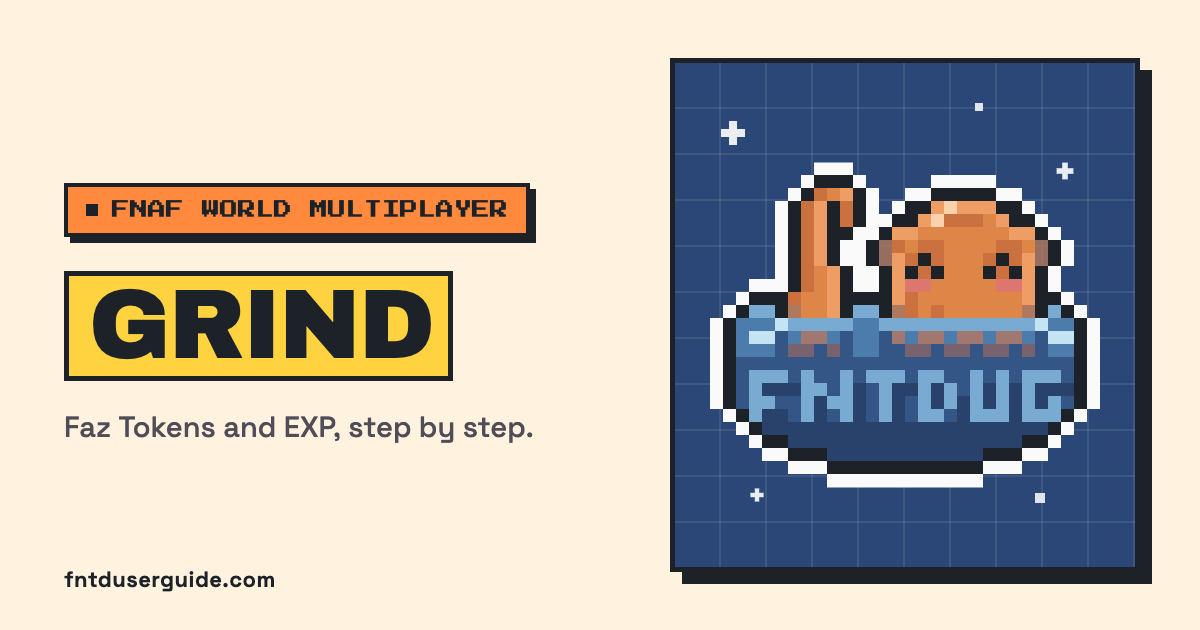
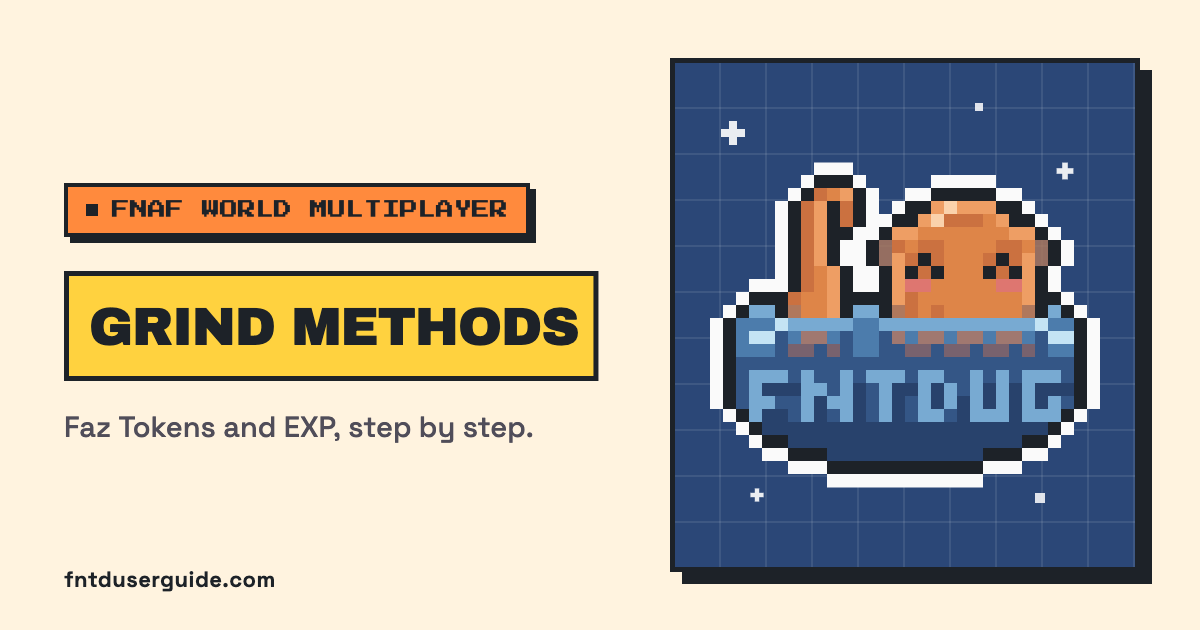
Rename the FWM Grind page to Grind Methods
Nav, heading, titles, share image and alt text. The URL stays /fwm/grind. Bumps the share image version so Discord refetches it.

Changed region(s): [[0.0617, 0.4222, 0.5242, 0.6032]]

diff --git a/fwm/grind.html b/fwm/grind.html
@@ -3,7 +3,7 @@
 <head>
   <meta charset="UTF-8">
   <meta name="viewport" content="width=device-width, initial-scale=1.0">
-  <title>FNaF World Multiplayer Grind Guide | FNTD User Guide</title>
+  <title>FNaF World Multiplayer Grind Methods | FNTD User Guide</title>
   <link rel="icon" type="image/png" href="https://primary.jwwb.nl/public/g/h/p/temp-xkzspsgvvlzquzykopjj/circle_done-high-hapj13.png?enable-io=true&enable=upscale&height=70">
   <link href="https://fonts.googleapis.com/css2?family=Archivo+Black&family=Audiowide&family=JetBrains+Mono:wght@400;700&family=Press+Start+2P&family=Space+Grotesk:wght@400;500;700&display=swap" rel="stylesheet">
   <style>*,*::before,*::after{box-sizing:border-box;margin:0;padding:0;overflow-wrap:break-word;-webkit-font-smoothing:antialiased;-moz-osx-font-smoothing:grayscale}html,body{min-height:100vh;font-size:16px;scrollbar-width:thin;-webkit-text-size-adjust:100%;text-size-adjust:100%;-webkit-font-smoothing:antialiased;-moz-osx-font-smoothing:grayscale}html{font-size:10px}body::-webkit-scrollbar{width:6px}body::-webkit-scrollbar-thumb{border-radius:3px}#ug-main{min-height:100vh;display:flex;flex-direction:column}.ug-mn-child.active::after,.ug-mn-link.active::after{content:"|";margin-left:4px;font-weight:400}body.ug-cursor-off .ug-mn-child.active::after,body.ug-cursor-off .ug-mn-link.active::after{opacity:0}#ug-hamburger{display:none;position:fixed;top:11px;right:12px;z-index:1200;border-radius:22px;padding:7px 13px 7px 10px;cursor:pointer;font-size:10px;letter-spacing:.4px;align-items:center;gap:6px;transition:background .15s,border-color .15s,box-shadow .15s}#ug-hamburger .hmb-icon{font-size:16px;line-height:1}#ug-overlay{display:none;position:fixed;inset:0;z-index:1099}#ug-overlay.open{display:block}#ug-mobile-nav{position:fixed;top:0;right:0;width:min(290px,88vw);height:100vh;z-index:1100;overflow-y:auto;transform:translateX(100%);transition:transform .3s cubic-bezier(.4,0,.2,1);display:flex;flex-direction:column;scrollbar-width:thin}#ug-mobile-nav::-webkit-scrollbar{width:3px}#ug-mobile-nav::-webkit-scrollbar-thumb{border-radius:2px}#ug-mobile-nav.open{transform:translateX(0)}.ug-mn-header{display:flex;align-items:center;justify-content:space-between;padding:14px 14px 13px;flex-shrink:0}.ug-mn-brand{display:flex;align-items:center;gap:10px}.ug-mn-brand-logo{width:30px;height:30px;object-fit:contain}.ug-mn-brand-name{font-size:12px;line-height:1.2}.ug-mn-close{border-radius:50%;width:28px;height:28px;display:flex;align-items:center;justify-content:center;font-size:14px;cursor:pointer;flex-shrink:0;line-height:1;transition:background .13s,color .13s,border-color .13s}.ug-mn-body{flex:1;padding:6px 0 12px}.ug-mn-link{display:flex;align-items:center;padding:12px 18px;font-size:10.5px;letter-spacing:.3px;text-decoration:none;transition:background .12s,color .12s}.ug-mn-section-btn{display:flex;align-items:center;justify-content:space-between;width:100%;padding:11px 18px;border:none;font-size:9.5px;letter-spacing:1.2px;text-transform:uppercase;cursor:pointer;text-align:left;transition:background .12s,color .12s}.ug-mn-section-arrow{opacity:.55;font-size:13px;flex-shrink:0;font-style:normal;min-width:.8em;text-align:center;transition:opacity .12s,color .12s}.ug-mn-section.open .ug-mn-section-btn .ug-mn-section-arrow{opacity:1}.ug-mn-section-items{max-height:0;overflow:hidden;transition:max-height .28s ease}.ug-mn-section.open .ug-mn-section-items{max-height:600px}.ug-mn-child{display:block;padding:9px 18px 9px 28px;font-size:10px;letter-spacing:.2px;text-decoration:none;transition:background .11s,color .11s}.ug-mn-child:last-child{border-bottom:none}.ug-mn-child.active{border-left:2px solid var(--ug-accent);padding-left:26px}.ug-mn-discord-wrap{padding:14px 14px 4px}.ug-mn-discord{display:flex;align-items:center;gap:9px;padding:11px 14px;border-radius:9px;font-size:10.5px;text-decoration:none;letter-spacing:.3px;transition:background .13s,border-color .13s,color .13s}#ug-hero{position:relative}#ug-hero::before{content:'';position:absolute;inset:0;pointer-events:none}#ug-hero-inner{position:relative;z-index:1;padding:24px 18px 22px;max-width:860px;width:100%;margin:0 auto}#ug-content{flex:1;padding:22px 18px 50px;max-width:860px;width:100%;margin:0 auto}.ug-page-title-area{text-align:center;margin-bottom:18px}.ug-page-title{font-size:32px;margin-bottom:10px;text-decoration:underline;text-underline-offset:6px}.ug-status-badge{display:inline-block;padding:6px 18px;border-radius:20px;font-size:10px;margin-bottom:12px}.ug-page-desc{font-size:17px;line-height:1.75;margin-bottom:6px;text-align:center}.ug-note{font-size:16px;color:#fff;line-height:1.75;margin-bottom:16px}#ug-content img{max-width:100%;height:auto;display:block;margin:0 auto 16px}.ad-slot{text-align:center}@media(max-width:768px){#ug-hamburger{display:flex}}@media(max-width:480px){.ug-page-title{font-size:22px}}#tradeApp button{font-family:'Press Start 2P',cursive}#ug-content{max-width:1320px!important;}@media(max-width:600px){#ug-content{padding:22px 12px 50px!important;}}#ug-hamburger{z-index:2147483647!important}#ug-overlay{z-index:2147483645!important}#ug-mobile-nav{z-index:2147483646!important}</style>
@@ -18,18 +18,18 @@
   <div id="ug-main">
     <div id="ug-hero"><div id="ug-hero-inner">
       <div class="ug-page-title-area">
-        <div class="ug-page-title">FWM Grind</div>
+        <div class="ug-page-title">FWM Grind Methods</div>
         <div class="ug-status-badge" data-gh-file="fnafworldgrind.json" data-gh-repo="FNTDUG/characters.json">(Up-To-Date!)</div>
         <p class="ug-page-desc" style="margin-top:8px">The fastest ways to farm Faz Tokens and EXP in FNaF World Multiplayer on Roblox. Pick a method to see the boss, the rewards and every step.</p>
       </div>
 <div class="ad-slot" style="margin-top:14px"><ins class="adsbygoogle" style="display:block" data-ad-client="ca-pub-7017245771068026" data-ad-slot="9010982209" data-ad-format="auto" data-full-width-responsive="true"></ins><script>(adsbygoogle = window.adsbygoogle || []).push({});</script></div>
     </div></div>
     <div id="ug-content">
-<link rel="stylesheet" href="/fwm/fw.css?v=20261022c">
+<link rel="stylesheet" href="/fwm/fw.css?v=20261022d">
 <div class="fw fw--grind" id="fw" data-src="https://raw.githubusercontent.com/FNTDUG/characters.json/main/fnafworld.json" data-grind="https://raw.githubusercontent.com/FNTDUG/characters.json/main/fnafworldgrind.json">
-<div class="fw-grids" id="fw-panel"><p class="fw-none">Loading the grind guides...</p></div>
+<div class="fw-grids" id="fw-panel"><p class="fw-none">Loading the grind methods...</p></div>
 </div>
-<script src="/fwm/fw.js?v=20261022c" defer></script>
+<script src="/fwm/fw.js?v=20261022d" defer></script>
 
           <div class="ad-slot" style="max-width:600px;width:95%;margin:32px auto 8px"><ins class="adsbygoogle" style="display:block" data-ad-client="ca-pub-7017245771068026" data-ad-slot="9010982209" data-ad-format="auto" data-full-width-responsive="true"></ins><script>(adsbygoogle = window.adsbygoogle || []).push({});</script></div>
     </div>

diff --git a/_worker.js b/_worker.js
@@ -48,7 +48,7 @@ const MOBILE_NAV_BODY = `
     <a href="/fwm/tech-specs"            class="ug-mn-child" data-nav-href="/fwm/tech-specs">Tech Specs</a>
     <a href="/fwm/tierlist"             class="ug-mn-child" data-nav-href="/fwm/tierlist">TierList</a>
     <a href="/fwm/meta-teams"            class="ug-mn-child" data-nav-href="/fwm/meta-teams">Meta Teams</a>
-    <a href="/fwm/grind"                 class="ug-mn-child" data-nav-href="/fwm/grind">Grind</a>
+    <a href="/fwm/grind"                 class="ug-mn-child" data-nav-href="/fwm/grind">Grind Methods</a>
   </div>
 </div>
 <div class="ug-mn-section">
@@ -113,7 +113,7 @@ const DESKTOP_NAV_INNER = `
     <a href="/fwm/tech-specs"            data-nav-href="/fwm/tech-specs">Tech Specs</a>
     <a href="/fwm/tierlist"             data-nav-href="/fwm/tierlist">TierList</a>
     <a href="/fwm/meta-teams"            data-nav-href="/fwm/meta-teams">Meta Teams</a>
-    <a href="/fwm/grind"                 data-nav-href="/fwm/grind">Grind</a>
+    <a href="/fwm/grind"                 data-nav-href="/fwm/grind">Grind Methods</a>
   </div>
 </div>
 <div class="ug-tn-item">
@@ -3383,8 +3383,8 @@ async function pushSend(request, env) {
 
 const SITE_URL = 'https://www.fntduserguide.com';
 const SITE_NAME = 'FNTD User Guide';
-const SEO_OG_V = 3;
-const SEO_OG_ALT = { home: 'FNTD User Guide: many guides, one hub', fntd1: 'FNTD1 Guide on the FNTD User Guide', fntd2: 'FNTD2 Guide on the FNTD User Guide', 'fntd2-codes': 'FNTD2 Codes on the FNTD User Guide', bbn: 'BBN Guide on the FNTD User Guide', 'bbn-codes': 'BBN Codes on the FNTD User Guide', fwm: 'FWM Roster on the FNTD User Guide', 'fwm-specs': 'FWM Tech Specs on the FNTD User Guide', 'fwm-meta': 'FWM Meta Teams on the FNTD User Guide', 'fwm-tiers': 'FWM TierList on the FNTD User Guide', 'fwm-grind': 'FWM Grind on the FNTD User Guide', 'fwm-guide': 'FWM Guide on the FNTD User Guide' };
+const SEO_OG_V = 4;
+const SEO_OG_ALT = { home: 'FNTD User Guide: many guides, one hub', fntd1: 'FNTD1 Guide on the FNTD User Guide', fntd2: 'FNTD2 Guide on the FNTD User Guide', 'fntd2-codes': 'FNTD2 Codes on the FNTD User Guide', bbn: 'BBN Guide on the FNTD User Guide', 'bbn-codes': 'BBN Codes on the FNTD User Guide', fwm: 'FWM Roster on the FNTD User Guide', 'fwm-specs': 'FWM Tech Specs on the FNTD User Guide', 'fwm-meta': 'FWM Meta Teams on the FNTD User Guide', 'fwm-tiers': 'FWM TierList on the FNTD User Guide', 'fwm-grind': 'FWM Grind Methods on the FNTD User Guide', 'fwm-guide': 'FWM Guide on the FNTD User Guide' };
 function seoOgName(p) {
   if (p === '/fntd2/codes' || p === '/bbn/codes') return p.split('/')[1] + '-codes';
   if (p === '/patch-notes') return 'fntd2';
@@ -3450,7 +3450,7 @@ const SEO_PAGES = {
   '/fwm/tech-specs': ['FWM Tech Specs: FNaF World Multiplayer Bytes, Chips & Armor', 'Every Byte, Chip and Mendo-Armor upgrade in FNaF World Multiplayer on Roblox: what each does, what it costs and where to find every chip.'],
   '/fwm/tierlist': ['FWM TierList: Best FNaF World Multiplayer Characters', 'FNaF World Multiplayer tier list for Roblox: every party member, move, Byte and Chip ranked from S to D, with notes on why each one sits where it does.'],
   '/fwm/meta-teams': ['FWM Meta Teams: Best FNaF World Multiplayer Teams', 'The best FNaF World Multiplayer teams on Roblox: both parties of four characters, plus the four Bytes and four Chips to equip with each team.'],
-  '/fwm/grind': ['FWM Grind Guide: Farm Faz Tokens & EXP Fast', 'How to grind Faz Tokens and EXP in FNaF World Multiplayer on Roblox: the Gold Endo token loop, the Security Owl EXP loop and the best spot in each world.'],
+  '/fwm/grind': ['FWM Grind Methods: Farm Faz Tokens & EXP Fast', 'How to grind Faz Tokens and EXP in FNaF World Multiplayer on Roblox: the Gold Endo token loop, the Security Owl EXP loop and the best spot in each world.'],
   '/fwm/roster': ['FWM Roster Wiki: Every FNaF World Multiplayer Character', 'The FNaF World Multiplayer character wiki for Roblox: every party member with health, moves and how to unlock them, plus every boss, enemy and NPC.'],
   '/sponsor': ['Sponsor the FNTD User Guide | Reach Roblox Players', 'Sponsor the FNTD User Guide to put your Roblox game or product in front of Five Nights TD 2, Five Nights TD and Bite By Night players.'],
   '/privacy-policy': ['Privacy Policy | FNTD User Guide', 'How the FNTD User Guide handles your data: what is collected when you visit, how it is used, and who it is shared with.']
@@ -4210,7 +4210,7 @@ function seoFwmGrindHtml(d, roster) {
   if (!d || !Array.isArray(d.methods)) return '';
   const foes = {};
   ((roster && roster.bosses) || []).concat((roster && roster.enemies) || []).forEach(c => { if (c && c.name) foes[seoFwmSlug(c.name)] = c; });
-  const out = ['<h2>FNaF World Multiplayer grind guide</h2>'];
+  const out = ['<h2>FNaF World Multiplayer grind methods</h2>'];
   d.methods.forEach(m => {
     if (!m || !m.name) return;
     const f = m.boss && foes[seoFwmSlug(m.boss)];
@@ -4226,7 +4226,7 @@ function seoFwmGrindHtml(d, roster) {
       out.push(b);
     });
   });
-  return out.length > 1 ? seoBlock('FNaF World Multiplayer grind guide as text', out.join('')) : '';
+  return out.length > 1 ? seoBlock('FNaF World Multiplayer grind methods as text', out.join('')) : '';
 }
 function seoFwmTierHtml(d) {
   if (!d || !d.lists) return '';

diff --git a/fwm/roster.html b/fwm/roster.html
@@ -25,13 +25,13 @@
 <div class="ad-slot" style="margin-top:14px"><ins class="adsbygoogle" style="display:block" data-ad-client="ca-pub-7017245771068026" data-ad-slot="9010982209" data-ad-format="auto" data-full-width-responsive="true"></ins><script>(adsbygoogle = window.adsbygoogle || []).push({});</script></div>
     </div></div>
     <div id="ug-content">
-<link rel="stylesheet" href="/fwm/fw.css?v=20261022c">
+<link rel="stylesheet" href="/fwm/fw.css?v=20261022d">
 <div class="fw" id="fw" data-src="https://raw.githubusercontent.com/FNTDUG/characters.json/main/fnafworld.json" data-sort="world">
 <div class="fw-tabs" role="tablist" aria-label="Character types"><button type="button" role="tab" class="fw-tab" id="fw-tab-party" data-tab="party" aria-controls="fw-panel" aria-selected="true">Party <span class="fw-tab-n">48</span></button><button type="button" role="tab" class="fw-tab" id="fw-tab-boss" data-tab="boss" aria-controls="fw-panel" aria-selected="false" tabindex="-1">Bosses <span class="fw-tab-n">21</span></button><button type="button" role="tab" class="fw-tab" id="fw-tab-enemy" data-tab="enemy" aria-controls="fw-panel" aria-selected="false" tabindex="-1">Enemies <span class="fw-tab-n">43</span></button><button type="button" role="tab" class="fw-tab" id="fw-tab-npc" data-tab="npc" aria-controls="fw-panel" aria-selected="false" tabindex="-1">NPCs <span class="fw-tab-n">6</span></button></div>
 <div class="fw-tools"><label class="fw-sr" for="fw-q">Search characters</label><input id="fw-q" class="fw-q" type="search" placeholder="Search characters" autocomplete="off" spellcheck="false"><div class="fw-sortw"><button type="button" class="fw-sort" id="fw-sort" aria-haspopup="listbox" aria-expanded="false" aria-controls="fw-sort-menu"><span class="fw-sort-k">Sort:</span> <span class="fw-sort-v">World</span><span class="fw-sort-c" aria-hidden="true"></span></button><ul class="fw-menu" id="fw-sort-menu" role="listbox" aria-label="Sort by" tabindex="-1" hidden><li role="option" id="fw-opt-world" data-v="world" data-l="World" aria-selected="true"><span>World</span><svg class="fw-ck" viewBox="0 0 8 6" aria-hidden="true" focusable="false"><path d="M7 0h1v2H7v1H6v1H5v1H4v1H3V5H2V4H1V3H0V2h2v1h1v1h1V3h1V2h1V1h1z"/></svg></li><li role="option" id="fw-opt-hp" data-v="hp" data-l="Health" aria-selected="false"><span>Health</span><svg class="fw-ck" viewBox="0 0 8 6" aria-hidden="true" focusable="false"><path d="M7 0h1v2H7v1H6v1H5v1H4v1H3V5H2V4H1V3H0V2h2v1h1v1h1V3h1V2h1V1h1z"/></svg></li><li role="option" id="fw-opt-az" data-v="az" data-l="A to Z" aria-selected="false"><span>A to Z</span><svg class="fw-ck" viewBox="0 0 8 6" aria-hidden="true" focusable="false"><path d="M7 0h1v2H7v1H6v1H5v1H4v1H3V5H2V4H1V3H0V2h2v1h1v1h1V3h1V2h1V1h1z"/></svg></li><li role="option" id="fw-opt-game" data-v="game" data-l="Game" data-tabs="party" aria-selected="false"><span>Game</span><svg class="fw-ck" viewBox="0 0 8 6" aria-hidden="true" focusable="false"><path d="M7 0h1v2H7v1H6v1H5v1H4v1H3V5H2V4H1V3H0V2h2v1h1v1h1V3h1V2h1V1h1z"/></svg></li></ul></div></div>
 <div class="fw-grids" id="fw-panel" role="tabpanel" aria-labelledby="fw-tab-party"><p class="fw-none">Loading characters...</p></div>
 </div>
-<script src="/fwm/fw.js?v=20261022c" defer></script>
+<script src="/fwm/fw.js?v=20261022d" defer></script>
 
           <div class="ad-slot" style="max-width:600px;width:95%;margin:32px auto 8px"><ins class="adsbygoogle" style="display:block" data-ad-client="ca-pub-7017245771068026" data-ad-slot="9010982209" data-ad-format="auto" data-full-width-responsive="true"></ins><script>(adsbygoogle = window.adsbygoogle || []).push({});</script></div>
     </div>

diff --git a/fwm/tech-specs.html b/fwm/tech-specs.html
@@ -25,13 +25,13 @@
 <div class="ad-slot" style="margin-top:14px"><ins class="adsbygoogle" style="display:block" data-ad-client="ca-pub-7017245771068026" data-ad-slot="9010982209" data-ad-format="auto" data-full-width-responsive="true"></ins><script>(adsbygoogle = window.adsbygoogle || []).push({});</script></div>
     </div></div>
     <div id="ug-content">
-<link rel="stylesheet" href="/fwm/fw.css?v=20261022c">
+<link rel="stylesheet" href="/fwm/fw.css?v=20261022d">
 <div class="fw" id="fw" data-src="https://raw.githubusercontent.com/FNTDUG/characters.json/main/fnafworldspecs.json" data-sort="group">
 <div class="fw-tabs" role="tablist" aria-label="Tech spec types"><button type="button" role="tab" class="fw-tab" id="fw-tab-byte" data-tab="byte" aria-controls="fw-panel" aria-selected="true">Bytes <span class="fw-tab-n">23</span></button><button type="button" role="tab" class="fw-tab" id="fw-tab-chip" data-tab="chip" aria-controls="fw-panel" aria-selected="false" tabindex="-1">Chips <span class="fw-tab-n">21</span></button><button type="button" role="tab" class="fw-tab" id="fw-tab-armor" data-tab="armor" aria-controls="fw-panel" aria-selected="false" tabindex="-1">Mendo-Armor <span class="fw-tab-n">4</span></button></div>
 <div class="fw-tools"><label class="fw-sr" for="fw-q">Search bytes, chips and armor</label><input id="fw-q" class="fw-q" type="search" placeholder="Search tech specs" autocomplete="off" spellcheck="false"><div class="fw-sortw"><button type="button" class="fw-sort" id="fw-sort" aria-haspopup="listbox" aria-expanded="false" aria-controls="fw-sort-menu"><span class="fw-sort-k">Sort:</span> <span class="fw-sort-v">Type</span><span class="fw-sort-c" aria-hidden="true"></span></button><ul class="fw-menu" id="fw-sort-menu" role="listbox" aria-label="Sort by" tabindex="-1" hidden><li role="option" id="fw-opt-group" data-v="group" data-l="Type" aria-selected="true"><span>Type</span><svg class="fw-ck" viewBox="0 0 8 6" aria-hidden="true" focusable="false"><path d="M7 0h1v2H7v1H6v1H5v1H4v1H3V5H2V4H1V3H0V2h2v1h1v1h1V3h1V2h1V1h1z"/></svg></li><li role="option" id="fw-opt-world" data-v="world" data-l="World" aria-selected="false"><span>World</span><svg class="fw-ck" viewBox="0 0 8 6" aria-hidden="true" focusable="false"><path d="M7 0h1v2H7v1H6v1H5v1H4v1H3V5H2V4H1V3H0V2h2v1h1v1h1V3h1V2h1V1h1z"/></svg></li><li role="option" id="fw-opt-price" data-v="price" data-l="Price" data-tabs="byte armor" aria-selected="false"><span>Price</span><svg class="fw-ck" viewBox="0 0 8 6" aria-hidden="true" focusable="false"><path d="M7 0h1v2H7v1H6v1H5v1H4v1H3V5H2V4H1V3H0V2h2v1h1v1h1V3h1V2h1V1h1z"/></svg></li><li role="option" id="fw-opt-az" data-v="az" data-l="A to Z" aria-selected="false"><span>A to Z</span><svg class="fw-ck" viewBox="0 0 8 6" aria-hidden="true" focusable="false"><path d="M7 0h1v2H7v1H6v1H5v1H4v1H3V5H2V4H1V3H0V2h2v1h1v1h1V3h1V2h1V1h1z"/></svg></li></ul></div></div>
 <div class="fw-grids" id="fw-panel" role="tabpanel" aria-labelledby="fw-tab-byte"><p class="fw-none">Loading characters...</p></div>
 </div>
-<script src="/fwm/fw.js?v=20261022c" defer></script>
+<script src="/fwm/fw.js?v=20261022d" defer></script>
 
           <div class="ad-slot" style="max-width:600px;width:95%;margin:32px auto 8px"><ins class="adsbygoogle" style="display:block" data-ad-client="ca-pub-7017245771068026" data-ad-slot="9010982209" data-ad-format="auto" data-full-width-responsive="true"></ins><script>(adsbygoogle = window.adsbygoogle || []).push({});</script></div>
     </div>

diff --git a/fwm/tierlist.html b/fwm/tierlist.html
@@ -25,12 +25,12 @@
 <div class="ad-slot" style="margin-top:14px"><ins class="adsbygoogle" style="display:block" data-ad-client="ca-pub-7017245771068026" data-ad-slot="9010982209" data-ad-format="auto" data-full-width-responsive="true"></ins><script>(adsbygoogle = window.adsbygoogle || []).push({});</script></div>
     </div></div>
     <div id="ug-content">
-<link rel="stylesheet" href="/fwm/fw.css?v=20261022c">
+<link rel="stylesheet" href="/fwm/fw.css?v=20261022d">
 <div class="fw fw--tiers" id="fw" data-src="https://raw.githubusercontent.com/FNTDUG/characters.json/main/fnafworld.json" data-specs="https://raw.githubusercontent.com/FNTDUG/characters.json/main/fnafworldspecs.json" data-tiers="https://raw.githubusercontent.com/FNTDUG/characters.json/main/fnafworldtiers.json">
 <div class="fw-tabs" role="tablist" aria-label="Tier lists" hidden></div>
 <div class="fw-grids" id="fw-panel" role="tabpanel"><p class="fw-none">Loading the TierList...</p></div>
 </div>
-<script src="/fwm/fw.js?v=20261022c" defer></script>
+<script src="/fwm/fw.js?v=20261022d" defer></script>
 
           <div class="ad-slot" style="max-width:600px;width:95%;margin:32px auto 8px"><ins class="adsbygoogle" style="display:block" data-ad-client="ca-pub-7017245771068026" data-ad-slot="9010982209" data-ad-format="auto" data-full-width-responsive="true"></ins><script>(adsbygoogle = window.adsbygoogle || []).push({});</script></div>
     </div>

diff --git a/fwm/meta-teams.html b/fwm/meta-teams.html
@@ -25,12 +25,12 @@
 <div class="ad-slot" style="margin-top:14px"><ins class="adsbygoogle" style="display:block" data-ad-client="ca-pub-7017245771068026" data-ad-slot="9010982209" data-ad-format="auto" data-full-width-responsive="true"></ins><script>(adsbygoogle = window.adsbygoogle || []).push({});</script></div>
     </div></div>
     <div id="ug-content">
-<link rel="stylesheet" href="/fwm/fw.css?v=20261022c">
+<link rel="stylesheet" href="/fwm/fw.css?v=20261022d">
 <div class="fw fw--meta" id="fw" data-src="https://raw.githubusercontent.com/FNTDUG/characters.json/main/fnafworld.json" data-specs="https://raw.githubusercontent.com/FNTDUG/characters.json/main/fnafworldspecs.json" data-meta="https://raw.githubusercontent.com/FNTDUG/characters.json/main/fnafworldmeta.json">
 <div class="fw-tabs" role="tablist" aria-label="Team lists" hidden></div>
 <div class="fw-grids" id="fw-panel" role="tabpanel"><p class="fw-none">Loading teams...</p></div>
 </div>
-<script src="/fwm/fw.js?v=20261022c" defer></script>
+<script src="/fwm/fw.js?v=20261022d" defer></script>
 
           <div class="ad-slot" style="max-width:600px;width:95%;margin:32px auto 8px"><ins class="adsbygoogle" style="display:block" data-ad-client="ca-pub-7017245771068026" data-ad-slot="9010982209" data-ad-format="auto" data-full-width-responsive="true"></ins><script>(adsbygoogle = window.adsbygoogle || []).push({});</script></div>
     </div>

diff --git a/fwm/fw.js b/fwm/fw.js
@@ -1003,6 +1003,6 @@
     render();
     if (location.hash.length > 1) fromHash();
   }).catch(function () {
-    mount.innerHTML = '<p class="fw-none">' + (tierMode ? 'The TierList' : grindMode ? 'The grind guides' : 'The characters') + ' could not load. Refresh the page to try again.</p>';
+    mount.innerHTML = '<p class="fw-none">' + (tierMode ? 'The TierList' : grindMode ? 'The grind methods' : 'The characters') + ' could not load. Refresh the page to try again.</p>';
   });
 })(typeof window !== 'undefined' ? window : this);

diff --git a/overhaul/ov.js b/overhaul/ov.js
@@ -179,7 +179,7 @@
     '/fwm/tech-specs': { tint: 'green', go: 'Open Tech Specs' },
     '/fwm/tierlist': { tint: 'pink', go: 'Open the TierList' },
     '/fwm/meta-teams': { tint: 'blue', go: 'Open Meta Teams' },
-    '/fwm/grind': { tint: 'green', go: 'Open the Grind guides' }
+    '/fwm/grind': { tint: 'green', go: 'Open Grind Methods' }
   };
   function directory() {
     var grid = document.querySelector('#ug-content .bbn-dir-grid');
